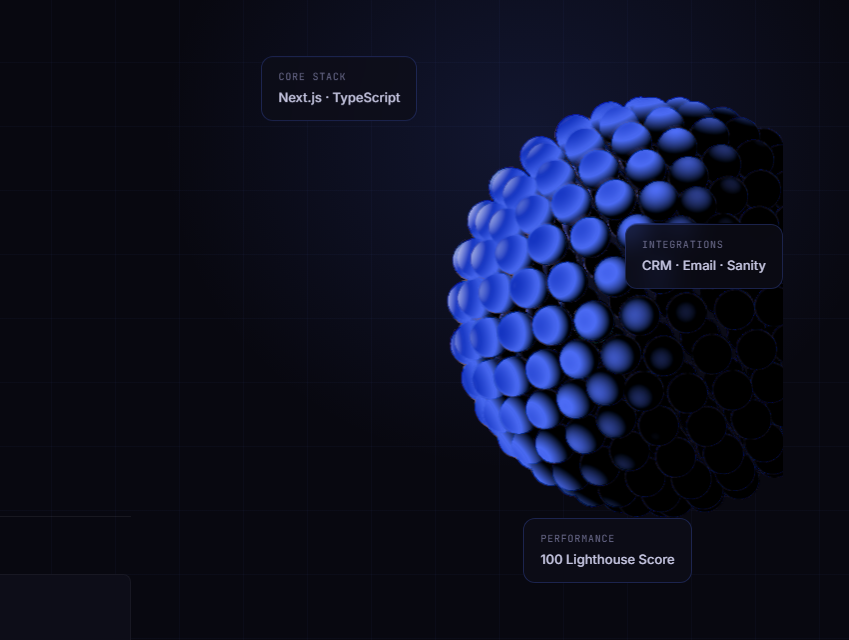
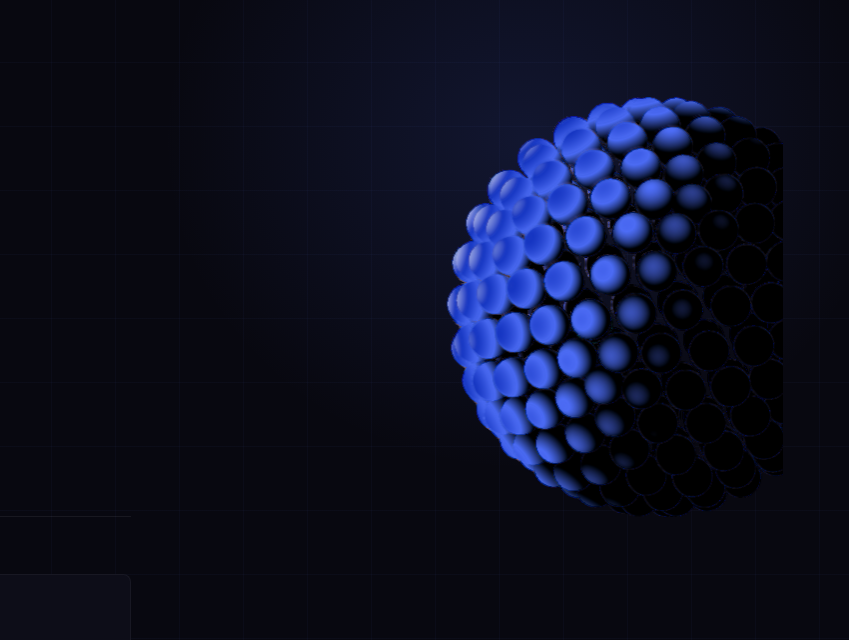
fix(3d-sphere): remove baked-in labels and optimize fallback scaling and blending on mobile

diff --git a/scripts/capture_sphere.js b/scripts/capture_sphere.js
@@ -18,16 +18,28 @@ async function main() {
   console.log('Waiting for Spline scene to load...');
   await page.waitForTimeout(5000); // Wait 5 seconds for full load and animation
   
+  // HIDE all floating labels before taking the screenshot so they are not baked into the image
+  console.log('Hiding floating labels...');
+  await page.evaluate(() => {
+    const divs = Array.from(document.querySelectorAll('div'));
+    divs.forEach(div => {
+      const text = div.textContent || '';
+      if (text.includes('Core Stack') || text.includes('Performance') || text.includes('Integrations')) {
+        const style = window.getComputedStyle(div);
+        if (style.position === 'absolute') {
+          div.style.display = 'none';
+        }
+      }
+    });
+  });
+  
   // Find the canvas inside the hero section's right column
-  // Let's locate the canvas or the container
   const heroRight = page.locator('#hero canvas');
   
   if (await heroRight.count() > 0) {
     console.log('Canvas found. Capturing screenshot of the 3D sphere canvas...');
     const outputPath = path.join(__dirname, '..', 'public', 'sphere-fallback.png');
     
-    // We want the transparent canvas or the container
-    // To make sure it has a transparent background, we capture the canvas element directly
     await heroRight.first().screenshot({
       path: outputPath,
       omitBackground: true, // Transparent background!

diff --git a/src/components/three/SplineHeroScene.tsx b/src/components/three/SplineHeroScene.tsx
@@ -113,7 +113,8 @@ export function SplineHeroScene({
           height: '100%',
           left: '-20%',
           top: 0,
-          objectFit: 'contain',
+          objectFit: 'cover',
+          mixBlendMode: 'screen',
           opacity: loaded ? 0 : 1, // Smoothly cross-fade to interactive scene once fully loaded
           transition: 'opacity 0.8s cubic-bezier(0.16, 1, 0.3, 1)',
           pointerEvents: 'none',

diff --git a/src/components/sections/Hero.tsx b/src/components/sections/Hero.tsx
@@ -312,7 +312,8 @@ export function Hero() {
                     height: '100%',
                     left: '-20%',
                     top: 0,
-                    objectFit: 'contain',
+                    objectFit: 'cover',
+                    mixBlendMode: 'screen',
                     pointerEvents: 'none',
                     userSelect: 'none',
                   }}
